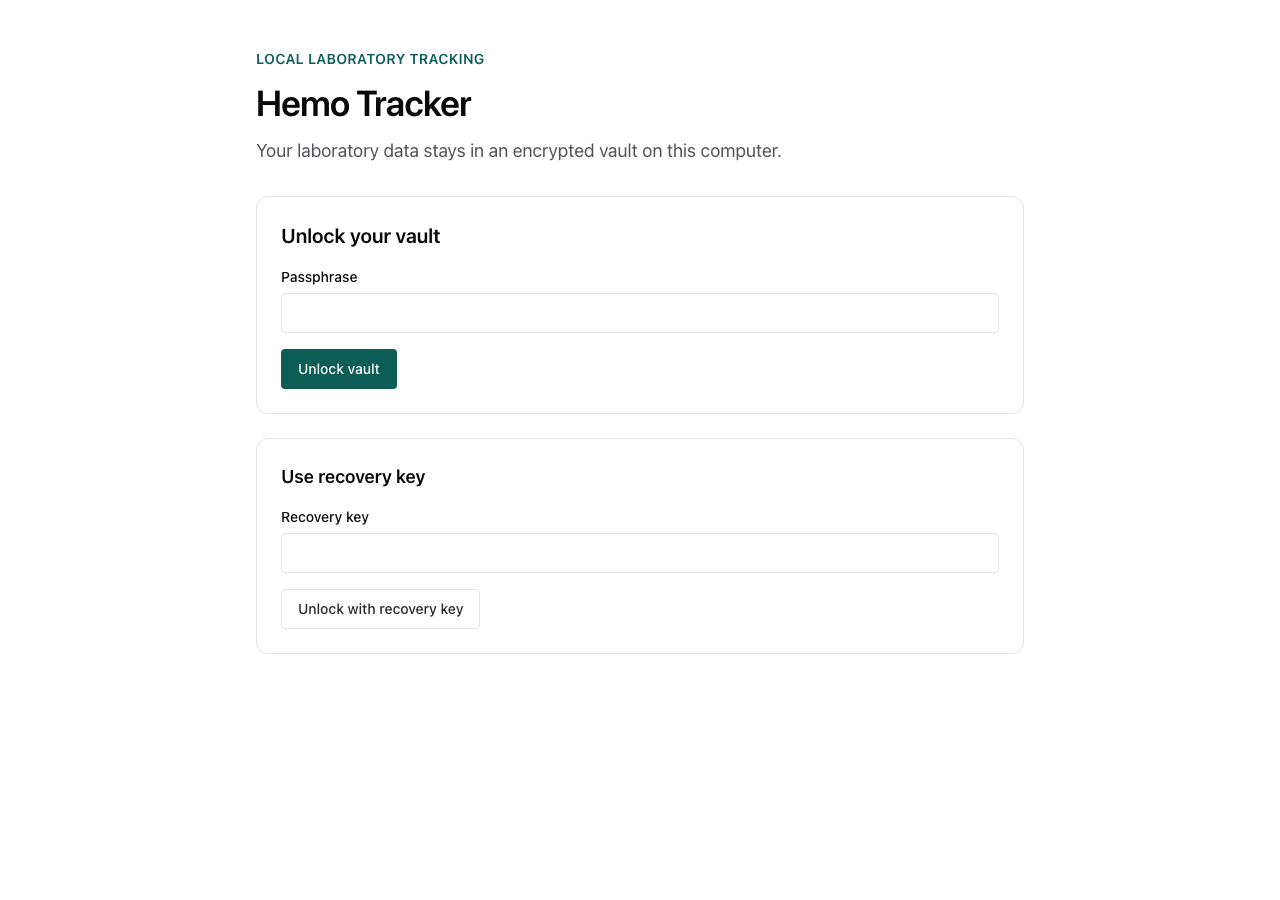
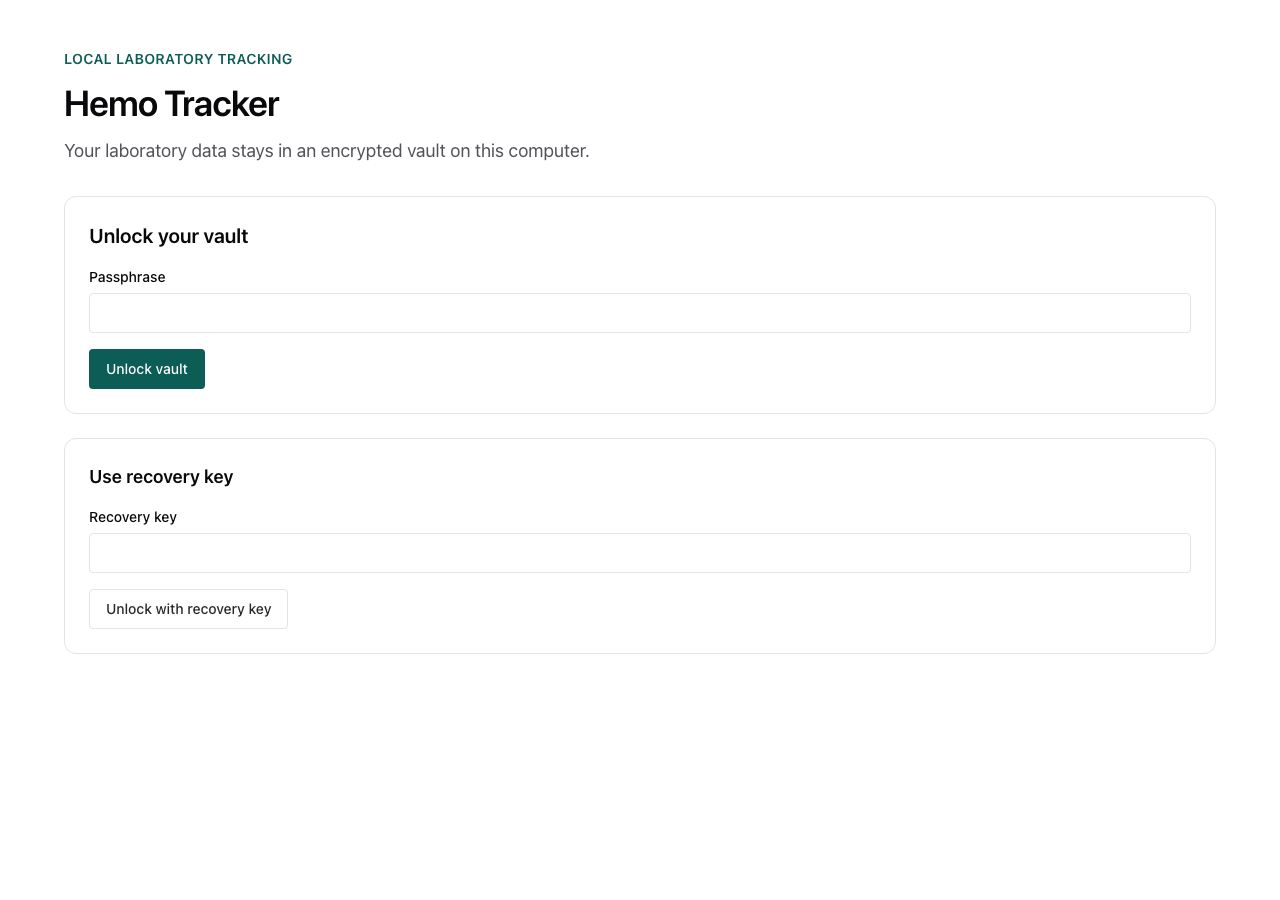
test: align UI evidence with focused pages

diff --git a/tests/e2e/v1-screenshots.spec.ts b/tests/e2e/v1-screenshots.spec.ts
@@ -31,9 +31,8 @@ test("capture unlocked overview", async ({ page }) => {
   await mockTauri(page, "unlocked");
   await page.goto("/");
   await page.getByLabel("Trend analyte").selectOption("hemoglobin");
-  await page.getByLabel("Target range analyte").selectOption("hemoglobin");
   await expect(
-    page.getByText("Fictional Central Laboratory").first(),
+    page.getByText("Local analyte trend", { exact: true }).first(),
   ).toBeVisible();
   await page.screenshot({
     path: path.join(screenshotDirectory, "desktop-unlocked-overview.png"),

diff --git a/tests/e2e/accessibility.spec.ts b/tests/e2e/accessibility.spec.ts
@@ -40,7 +40,7 @@ test("unlocked webview has no automated WCAG violations", async ({ page }) => {
   );
   await page.goto("/");
   await expect(
-    page.getByRole("heading", { name: "Record a lab report" }),
+    page.getByRole("heading", { name: "Analyte trend" }),
   ).toBeVisible();
   const results = await new AxeBuilder({ page }).analyze();
   expect(results.violations).toEqual([]);
